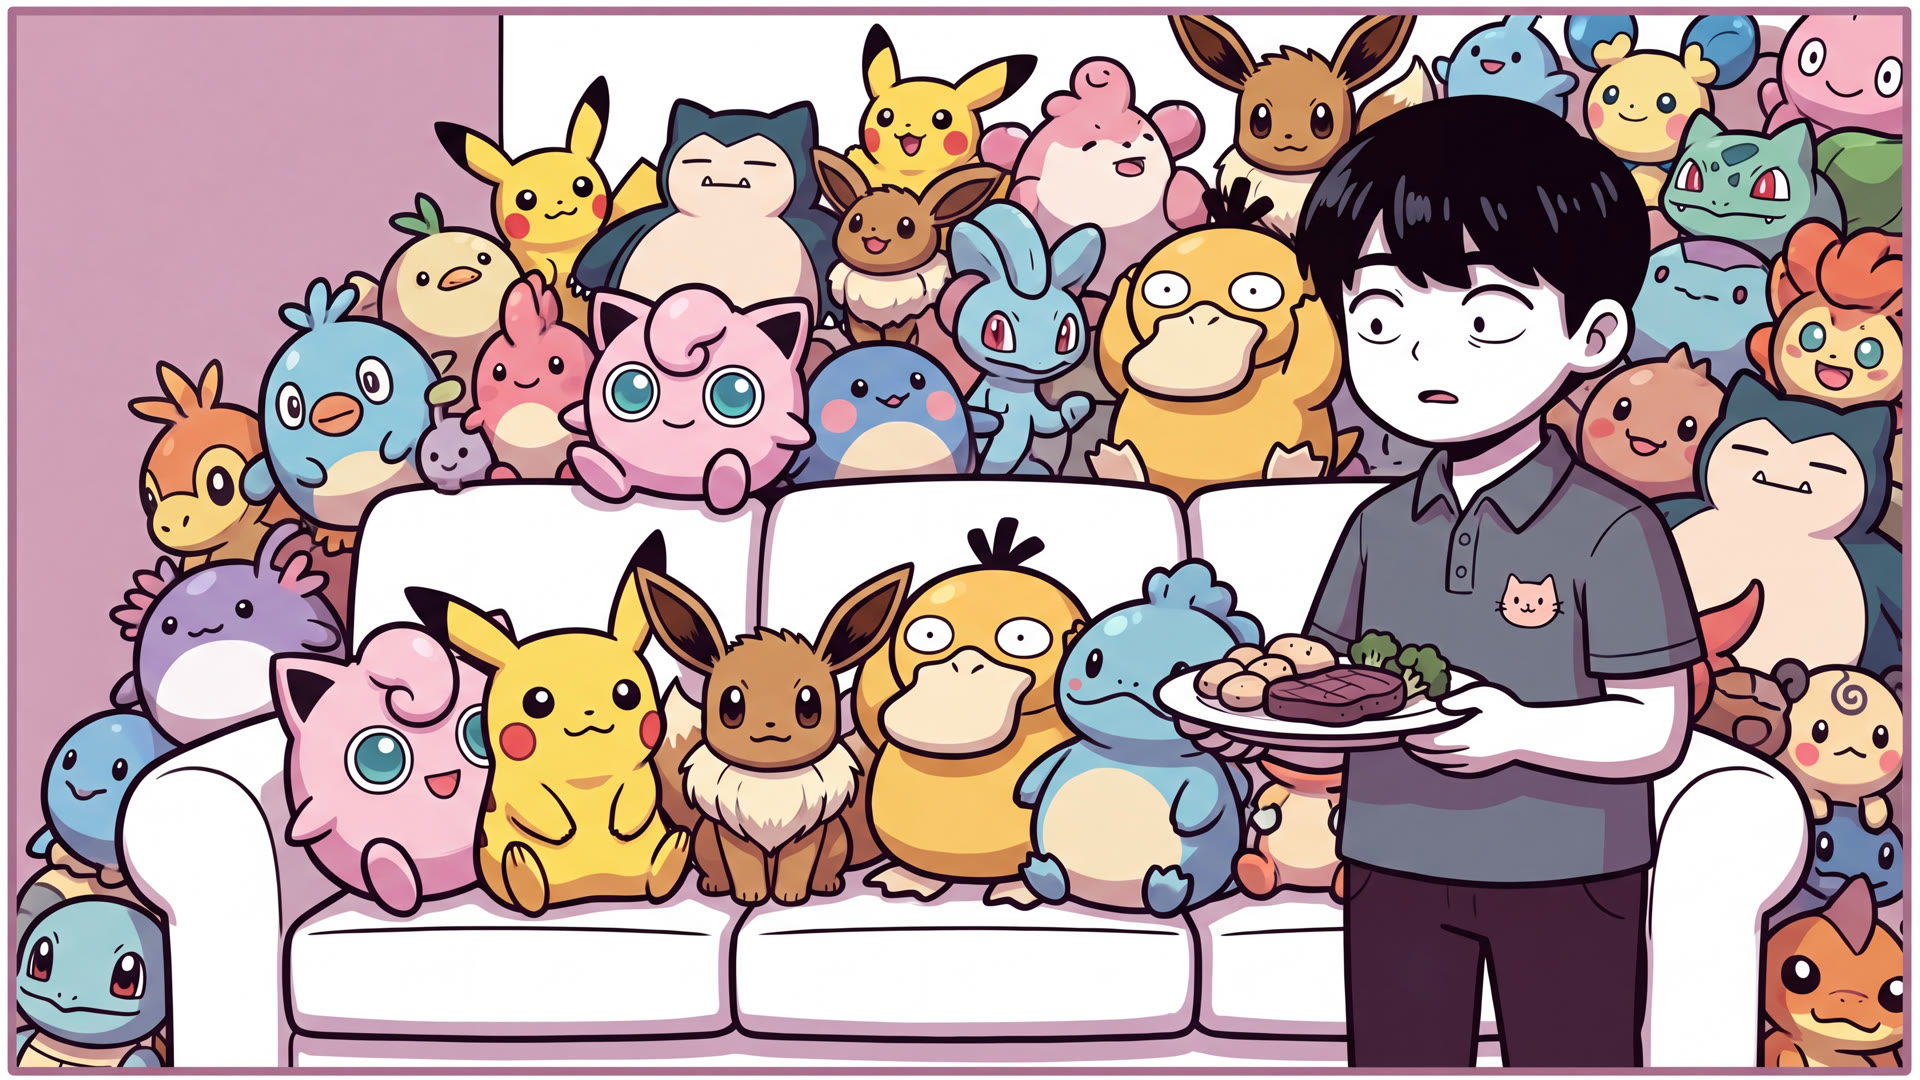
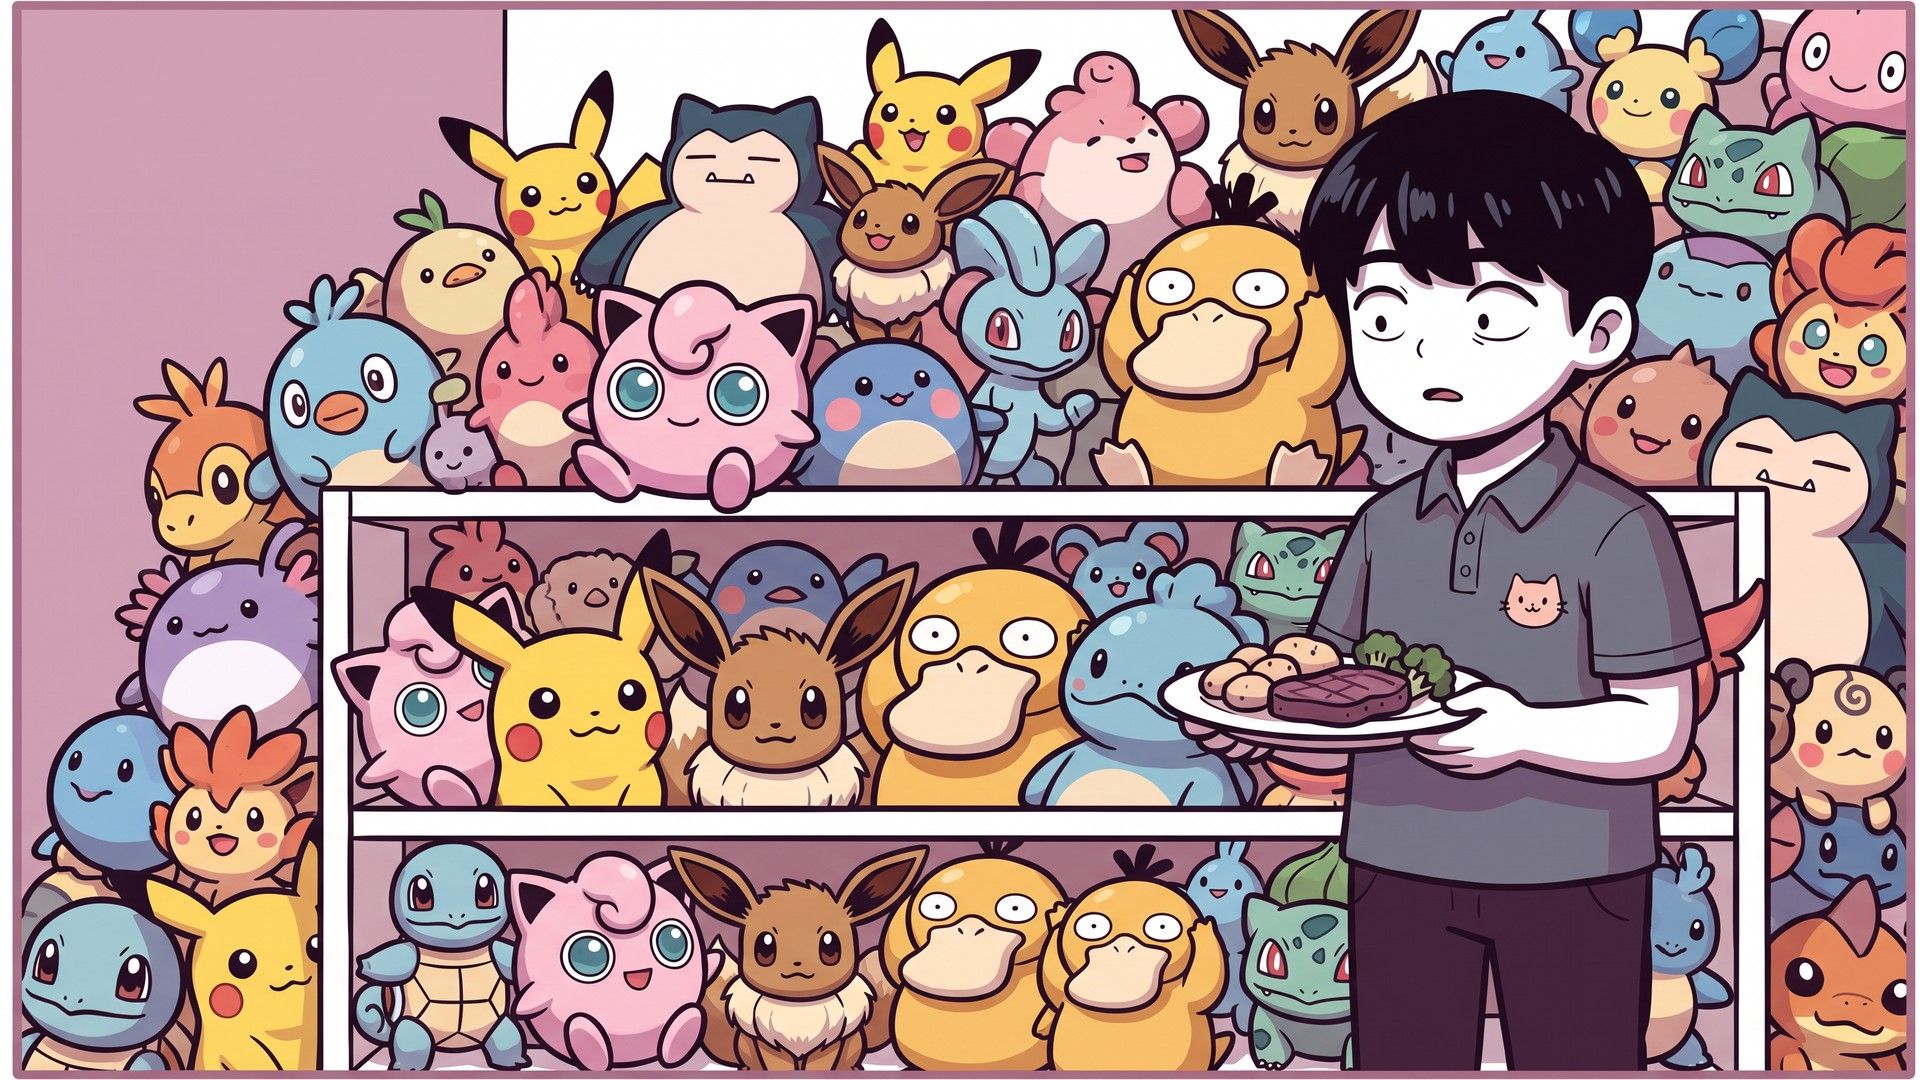
Lock the WIP fixes from Render Drop: DB1-01, DB1-02 end, V2-01c, V3-06d, V3-07 start
Pokémon plushies (mixed sizes in DB1-02), sofa-to-shelf, card-binder talk
(tag now CARD COLLECTOR) and the five-Adrian start without hand-holding.
OU-01/OU-02 and V1-10 stay WIP.

Claude-Session: https://claude.ai/code/session_01Wfk5ePJ22LN7xs1AbjaDY5

diff --git a/storyboard/data.js b/storyboard/data.js
@@ -346,7 +346,7 @@ window.SB = {
           gen: { how: "I2V", img: "{HUSBAND} standing among many versions of himself in different outfits and styles, {WIFE} walking calmly between them smiling", motion: "Slow dolly forward as she walks through." } },
         { id: "V3-06", t: 157.9, lyric: "Femboy, geek, nerd, cards in my shoe—", size: "4 × ~0.9s cuts", cam: "Same framing each cut, Tiff in the same spot",
           action: "Femboy: cute outfit and hair clip, Tiff gives a thumbs up. Geek: gadgets and monitors. Nerd: glasses, books and games. Cards: he shows her his card binder and they geek out over it together, one card still peeking from his sneaker.",
-          act: "Tiff: the exact same loving face every time. That’s the joke.", ui: "Optional tiny labels: FEMBOY · GEEK · NERD · CARDS IN SHOE", sfx: "One beat-hit per cut", trans: "Light swirl", tags: ["versions"], p: 1, mode: "gag",
+          act: "Tiff: the exact same loving face every time. That’s the joke.", ui: "Optional tiny labels: FEMBOY · GEEK · NERD · CARD COLLECTOR", sfx: "One beat-hit per cut", trans: "Light swirl", tags: ["versions"], p: 1, mode: "gag",
           gen: { how: "I2V ×4", img: "Four keyframes with identical framing: {HUSBAND} as a cute femboy in a skirt and hair clip; as a geek surrounded by gadgets; as a nerd with glasses and stacks of books and games; with a trading card sticking out of his sneaker; {WIFE} beside him with the same adoring smile each time", motion: "Tiny reaction per cut: thumbs up / nod / heart eyes / pluck the card." },
           note: "Decided: cute and playful (skirt, hair clip, a little blush). It must read as affectionate and celebratory." },
         { id: "V3-07", t: 161.9, lyric: "You let me be all of the things that I am,", size: "MS", cam: "Versions swirl into one, camera settles",

diff --git a/storyboard/overlays/spec.js b/storyboard/overlays/spec.js
@@ -78,7 +78,7 @@ module.exports = {
   "V3-06": [{ type: "tag", x: 60, y: 60, w: 300, text: "FEMBOY" }],
   "V3-06b": [{ type: "tag", x: 60, y: 60, w: 260, text: "GEEK" }],
   "V3-06c": [{ type: "tag", x: 60, y: 60, w: 260, text: "NERD" }],
-  "V3-06d": [{ type: "tag", x: 60, y: 60, w: 420, text: "CARDS IN SHOE" }],
+  "V3-06d": [{ type: "tag", x: 60, y: 60, w: 460, text: "CARD COLLECTOR" }],
   "V3-08": [{ type: "signtext", x: 95, y: 195, w: 320, rot: -19, size: 76, text: "GO\nADRIAN!!!" }],
 
   // Bridge

diff --git a/CLAUDE.md b/CLAUDE.md
@@ -14,7 +14,7 @@ Commissioned birthday music video for Tiff (from Adrian), set to "My Whole Suppl
 - **Spinda sheet locked:** job `202ed396-287f-4bc2-b075-1bcf394cc1a8`. Use it as the Spinda reference in every Spinda shot.
 - **Car props (8 October):** in the car shots, Spinda is only on Tiff's phone keychain, never on the rear-view mirror. The mirror carries a hanging bank-card-with-dollar-coin charm (mustard stripe, green coin; `storyboard/refs/mirror-charm.png`).
 - **V1-01 locked (8 October):** the approved car two-shot is `storyboard/animatic/renders/V1-01.jpg` (user-generated in Higgsfield). Do NOT attach it (or any finished shot) as a generation reference: it confuses the model (user, 8 October). Describe the car in words instead: light interior, Tiff passenger on frame left, Adrian driving on frame right, bank-card charm on the mirror. Default references only: character sheets, Spinda sheet, cat sheet, charm image. **V1-02, V1-03 (edited: Adrian's head, short sleeve, Tiff's clip) V1-04, V1-08 (edited twice: teal polo, brown hair, charm, then the strained grin and stress marks), V1-09 (white sofa with mauve shading = the house sofa), V1-10 (sofa still needs recolouring from solid mauve to white), V1-07 (heart-road map plate; V1-07 = tight crop on the corner store, BR-03 = full frame) and V1-06 (friend avatars: bob/gasp, ponytail/popcorn, curls/zoom) locked (8 October)** (V1-04 is the front three-quarter side view: Tiff in the near passenger window, Adrian through the windshield; Kling motion must turn his head to track the sign). Verse 1 prompts: `storyboard/prompts/v1.md`; priority scenes 3 to 11: `storyboard/prompts/priority.md`; every remaining shot, in six batches: `storyboard/prompts/remaining.md` (all six batches rendered 10 October; only V1-10's sofa recolour is left, which needs its job ID or an upload). V2-11 is cut (10 October). **Choruses (10 October): Chorus 2 and the final chorus reuse the Chorus 1 images and clips line for line (`gen.of` in data.js); only FC-06 to FC-08 get their own shots, plus FC-03 (couple cosplay: Adrian as Yugi, Tiff as Dark Magician Girl) and FC-04 (the real trips) in the final chorus.** Start/end frames and same-framing variants are made as image edits of the shot's own first frame (allowed; it is not a style reference).
-- **Priority keyframes locked so far (8 October):** PC-01, PC-02a (crop), PC-02 start and end, PC-05 (dark room, Adrian facing camera in a triangle of chandelier light, fork and spoon, cats on thrones in silhouette), DB1-01 (dance in the white living room, generic round creature plushies falling), DB1-02 end (high angle, room filled shoulder-deep; DB1-02 start = DB1-01), V2-01 A to D (Snorlax chair, Psyduck chair, sofa wall of Pokémon plushies, bed of sleeping Pikachu/Jigglypuff/Eevee; progressive push-in in the edit), V2-02 (Tiff pats the one free spot on the plushie sofa). Scene 5 done. V2-04 start (one Spinda) and end (three Spindas, different spots, smoke puffs) and V2-05 (Spinda wave, Tiff surfing, Adrian swept away) locked. Scene 6 done. V2-08 and V2-09 (dark stage) locked by the user. Scenes 7 to 10 generated by Claude on 10 October without per-shot review (user's choice); job IDs in `storyboard/renders-manifest.md`. Scene 11 (OU-05, OU-06) generated by Claude on 10 October; the whole priority set is now rendered, awaiting one combined review. PC-04 re-rendered fresh on 10 October with seven floor cats (job `2168721b-c4d6-48ce-9873-be8138636576`), pending review.
+- **Priority keyframes locked so far (8 October):** PC-01, PC-02a (crop), PC-02 start and end, PC-05 (dark room, Adrian facing camera in a triangle of chandelier light, fork and spoon, cats on thrones in silhouette), DB1-01 (dance in the white living room, generic round creature plushies falling), DB1-02 end (high angle, room filled shoulder-deep; DB1-02 start = DB1-01), V2-01 A to D (Snorlax chair, Psyduck chair, sofa wall of Pokémon plushies, bed of sleeping Pikachu/Jigglypuff/Eevee; progressive push-in in the edit), V2-02 (Tiff pats the one free spot on the plushie sofa). Scene 5 done. V2-04 start (one Spinda) and end (three Spindas, different spots, smoke puffs) and V2-05 (Spinda wave, Tiff surfing, Adrian swept away) locked. Scene 6 done. V2-08 and V2-09 (dark stage) locked by the user. Scenes 7 to 10 generated by Claude on 10 October without per-shot review (user's choice); job IDs in `storyboard/renders-manifest.md`. Scene 11 (OU-05, OU-06) generated by Claude on 10 October; the whole priority set is now rendered, awaiting one combined review. PC-04 re-rendered fresh on 10 October with seven floor cats (job `2168721b-c4d6-48ce-9873-be8138636576`), pending review. **WIP fixes (11 October):** DB1-01 and DB1-02 end (Pokémon plushies, mixed sizes), V2-01c (shelf), V3-06d (card-binder talk, tag CARD COLLECTOR) and V3-07 start (re-rendered without hand-holding, job `f5a35f01-ef63-4268-b6e4-8545b69a77d0`) are locked from Render Drop; still WIP: OU-01/OU-02 continuity and V1-10's sofa. FC-04 Alt (Render Drop, verdict "work") is the user's spare angle option, not a frame to fix.
 - **Cat sheet locked (8 October):** Miso and Tofu, job `25d53917-3177-498c-abc1-e07aae8a1a38`. Use it as the cat reference in every cat shot.
 - **Tiff's design (8 October, from the client's photos):** long straight sleek hair past the shoulders, dark brown fading to warm lighter brown at the ends, wispy curtain bangs with face-framing strands (casual variant: one long side braid); soft oval face, bright warm smile, not babyish; light-peach cat-face hair clip (matches Adrian's cat emblem); mustard cardigan over a white top, white skirt, mustard-striped socks, tan sneakers. **The locked sheets win over these words:** the polo is a muted slate teal and both cat motifs are light peach, as drawn.
 - **Tiff sheets locked (8 October):** main turnaround (Render Drop asset `7e1abe78a2783c407a70b4741a380c06`), expression sheet with 8 expressions incl. spiral eyes (asset `730617b7bc731b334bfac8a4a71f94cc`), braided variant for heart-mode scenes (asset `98aa7918da56d045d91b0d5a5e5a5c34`). All made by the user in Higgsfield. In shot prompts, draw Tiff and Adrian with the same normal (non-chibi) proportions as their sheets, put her cat clip on her LEFT side and the braid over her RIGHT shoulder (as in the braided sheet's main views).
